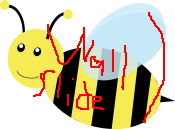
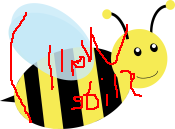
Animate player

diff --git a/Assets/Scripts/Player.cs b/Assets/Scripts/Player.cs
@@ -9,7 +9,8 @@ public class Player : MonoBehaviour {
 	 * 
 	 * TODO:
 	 * 
-	 * animate player
+	 * remove roll cooldown
+	 * transition frames for roll? dont know from/to which state
 	 * 
 	 * don't slow when jumping against walls? makes walljumping easier...
 	 *		maybe just not when going up? somehow?
@@ -20,10 +21,16 @@ public class Player : MonoBehaviour {
 	 *  slide down >= 45 degree slopes weirdness
 	 *  stick to slopes while walking down
 	 * 
+	 * Animation notes:
+	 *	Be sure to set NUM_RUN_FRAMES and NUM_ROLL_FRAMES
+	 *	Default sprite facing is left (remove - in facing calculation if not)
+	 *	Wall slide sprite should face opposite of other sprites
+	 * 
 	 * Cool moves:
 	 *	Jump-roll for height & distance
 	 *	Jump-roll-jump for controlled distance
 	 *	Walljump-roll to climb over a lip
+	 *	Roll-jump repeatedly to run fast
 	 */
 
 	private const float RUN_ACCEL = 0.4f;
@@ -43,8 +50,10 @@ public class Player : MonoBehaviour {
 	private static float SLIDE_THRESHOLD;
 	private static Vector2 GRAVITY_NORMAL = new Vector2(0, GRAVITY_ACCEL).normalized;
 
-	private const int NUM_WALK_SPRITES = 2;
-	private const int NUM_ROLL_SPRITES = 2;
+	private const int NUM_RUN_FRAMES = 2;
+	private const int NUM_ROLL_FRAMES = 2;
+
+	private const float FRAME_TIME = 0.1f; //time per frame of animation
 
 	private float baseScaleX;
 	private float baseScaleY;
@@ -73,17 +82,20 @@ public class Player : MonoBehaviour {
 		STAND,
 		JUMP,
 		WALLSLIDE,
-		WALK,
+		RUN,
 		ROLL
 	}
+	private SpriteRenderer sr;
 	private AnimState animState = AnimState.STAND;
 	private int animFrame = 0;
+	private float frameTime = FRAME_TIME;
 	private int facing = 1; //for animation: -1 for left, 1 for right
+	private bool shouldStand = false;
 
 	private Sprite standSprite;
 	private Sprite jumpSprite;
 	private Sprite wallslideSprite;
-	private Sprite[] walkSprites;
+	private Sprite[] runSprites;
 	private Sprite[] rollSprites;
 
 	void Start()
@@ -96,31 +108,34 @@ public class Player : MonoBehaviour {
 
 		SLIDE_THRESHOLD = -Mathf.Sqrt(2) / 2; //player will slide down 45 degree angle slopes
 
+		sr = gameObject.GetComponent<SpriteRenderer>();
 		LoadSprites();
 	}
 
 	private void LoadSprites()
 	{
-		standSprite = LoadSprite("walk");
+		standSprite = LoadSprite("stand");
 		jumpSprite = LoadSprite("jump");
 		wallslideSprite = LoadSprite("wallslide");
 
-		walkSprites = new Sprite[NUM_WALK_SPRITES];
-		for (int i = 0; i < NUM_WALK_SPRITES; i++)
-		{
-			walkSprites[i] = LoadSprite("walk/frame" + (i + 1));
-		}
-
-		rollSprites = new Sprite[NUM_ROLL_SPRITES];
-		for (int i = 0; i < NUM_ROLL_SPRITES; i++)
-		{
-			rollSprites[i] = LoadSprite("roll/frame" + (i + 1));
-		}
+		runSprites = new Sprite[NUM_RUN_FRAMES];
+		LoadAnim("run", runSprites, NUM_RUN_FRAMES);
+		
+		rollSprites = new Sprite[NUM_ROLL_FRAMES];
+		LoadAnim("roll", rollSprites, NUM_ROLL_FRAMES);
 	}
 
 	private Sprite LoadSprite(string name)
 	{
 		return Resources.Load<Sprite>("Images/player/" + name);
+	}
+
+	private void LoadAnim(string name, Sprite[] sprites, int numFrames)
+	{
+		for (int i = 0; i < numFrames; i++)
+		{
+			sprites[i] = LoadSprite(name + "/frame" + (i + 1));
+		}
 	}
 
 	private void Update()
@@ -135,6 +150,26 @@ public class Player : MonoBehaviour {
 		{
 			rollQueued = true;
 		}
+
+		sr.sprite = GetAnimSprite();
+	}
+
+	private Sprite GetAnimSprite()
+	{
+		switch (animState)
+		{
+			case AnimState.STAND:
+				return standSprite;
+			case AnimState.JUMP:
+				return jumpSprite;
+			case AnimState.WALLSLIDE:
+				return wallslideSprite;
+			case AnimState.RUN:
+				return runSprites[animFrame];
+			case AnimState.ROLL:
+				return rollSprites[animFrame];
+		}
+		return standSprite;
 	}
 
 	void FixedUpdate() {
@@ -145,22 +180,26 @@ public class Player : MonoBehaviour {
 		}*/
 
 		Vector2 velocity = rb.velocity;
+		shouldStand = false;
 		float xVel = Input.GetAxisRaw("Horizontal");
 		if (xVel == 0)
 		{
 			velocity.x = 0;
+			shouldStand = true;
 		}
 		else
 		{
 			if (velocity.x != 0 && Mathf.Sign(xVel) != Mathf.Sign(velocity.x)) //don't slide if switching directions on same frame
 			{
 				velocity.x = 0;
+				shouldStand = true;
 			}
 			else
 			{
 				velocity.x += RUN_ACCEL * xVel;
 				float speedCap = Mathf.Abs(xVel * MAX_RUN_VEL); //use input to clamp max speed so half tilted joystick is slower
 				velocity.x = Mathf.Clamp(velocity.x, -speedCap, speedCap);
+				SetAnimState(AnimState.RUN);
 			}
 
 			if (walljumpTime <= 0)
@@ -193,6 +232,7 @@ public class Player : MonoBehaviour {
 			}
 			else if (rollTime <= 0)
 			{
+				//finished roll and on ground, so do cooldown
 				rollCooldown -= Time.fixedDeltaTime;
 			}
 			
@@ -257,6 +297,18 @@ public class Player : MonoBehaviour {
 			}
 		}
 
+		if (velocity.y != 0 && rollTime <= 0)
+		{
+			if (wallSide != 0 && Math.Sign(velocity.x) != wallSide)
+			{
+				SetAnimState(AnimState.WALLSLIDE);
+			}
+			else
+			{
+				SetAnimState(AnimState.JUMP);
+			}
+		}
+
 		if (rollQueued)
 		{
 			if (canRoll)
@@ -274,6 +326,12 @@ public class Player : MonoBehaviour {
 			float rollVel = ROLL_VEL * timeFactor;
 			velocity.x = rollDir * rollVel;
 			rollTime -= Time.fixedDeltaTime;
+			SetAnimState(AnimState.ROLL);
+		}
+
+		if (shouldStand)
+		{
+			SetAnimState(AnimState.STAND);
 		}
 
 		if (velocity.x != 0)
@@ -298,6 +356,40 @@ public class Player : MonoBehaviour {
 	private void StopRoll()
 	{
 		rollTime = 0;
+	}
+
+	private void SetAnimState(AnimState state)
+	{
+		animState = state;
+
+		if (state != AnimState.STAND)
+		{
+			shouldStand = false;
+		}
+
+		if (state == AnimState.RUN)
+		{
+			AdvanceFrame(NUM_RUN_FRAMES);
+		}
+		else if (state == AnimState.ROLL)
+		{
+			AdvanceFrame(NUM_ROLL_FRAMES);
+		}
+		else
+		{
+			animFrame = 0;
+			frameTime = FRAME_TIME;
+		}
+	}
+
+	private void AdvanceFrame(int maxFrames)
+	{
+		frameTime -= Time.fixedDeltaTime; //physics based animations but whatever
+		if (frameTime <= 0)
+		{
+			frameTime = FRAME_TIME;
+			animFrame = (animFrame + 1) % maxFrames;
+		}
 	}
 
 	private void OnCollisionEnter2D(Collision2D collision)
